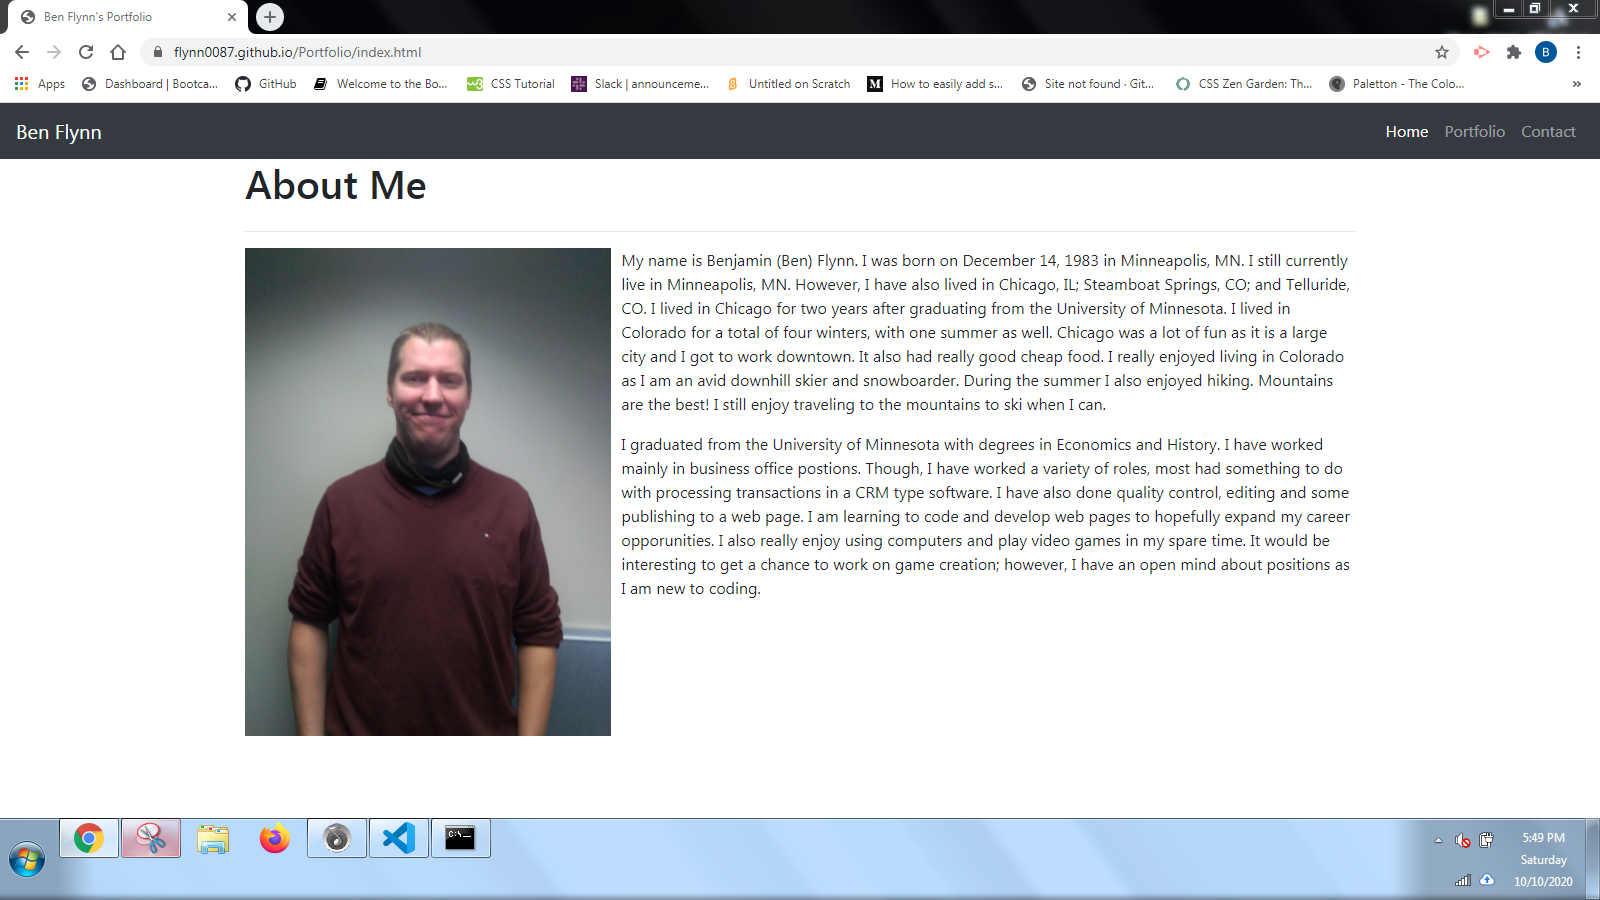
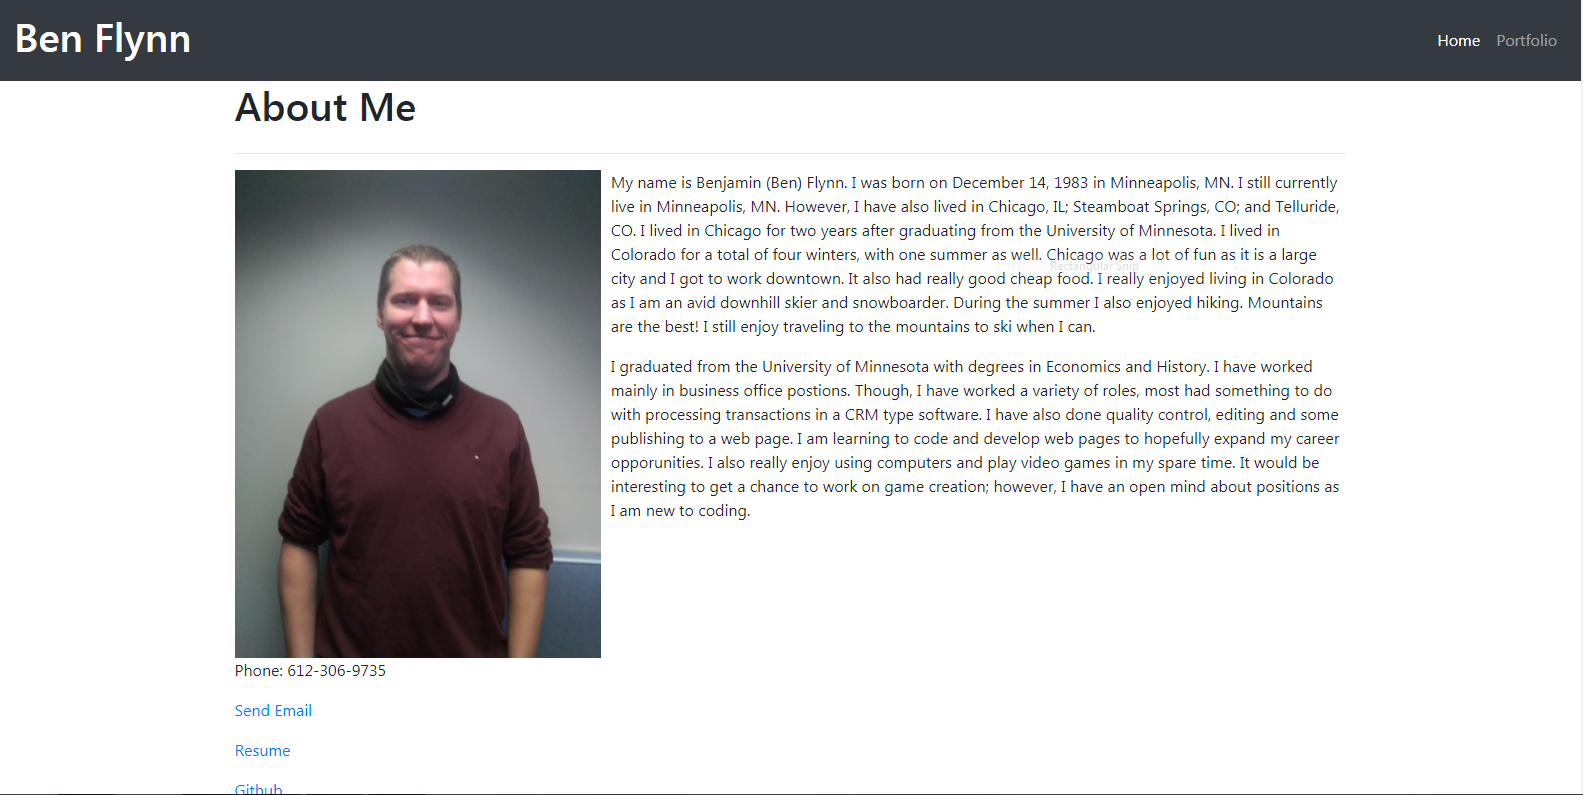
correction to readme updated screenshot

diff --git a/README.md b/README.md
@@ -11,7 +11,7 @@ No installation beyond a web browser should be needed to view the webpage. A cod
 ## Usage
 
 This webpage is viewable at: https://flynn0087.github.io/Portfolio/
-Here is an example image of the page: ![Image of webpage](screenshot.PNG)
+Here is an example image of the page: ![Image of webpage](Screenshot.PNG)
 
 ## Contributing
 
